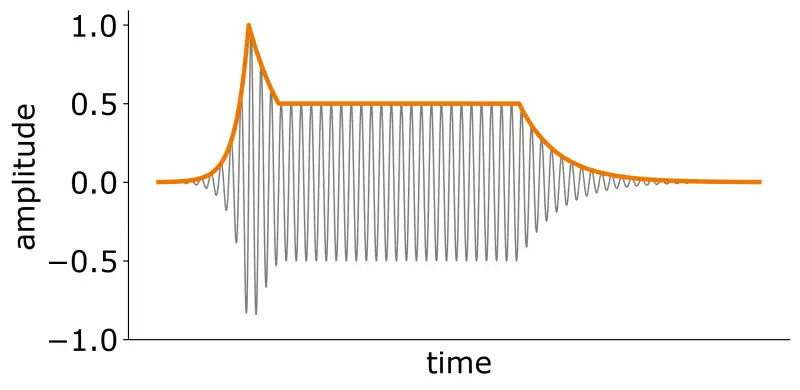
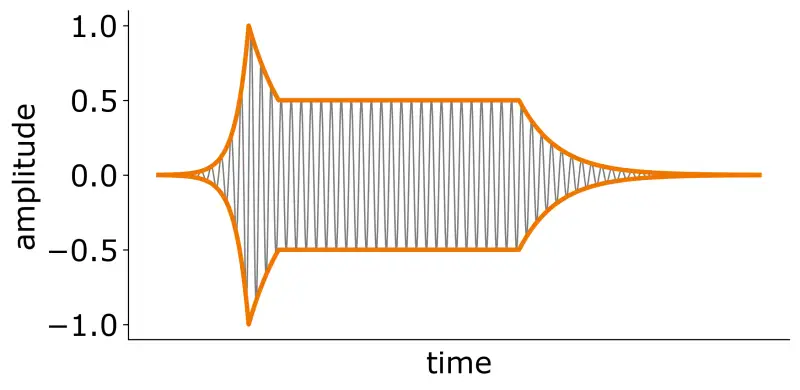
Posts: Envelopes.

diff --git a/_py/posts/synthesis/2022-07-03-envelopes/sine_adsr.py b/_py/posts/synthesis/2022-07-03-envelopes/sine_adsr.py
@@ -55,6 +55,7 @@ def main():
     plt.figure(figsize=(8,4))
     plt.plot(sine_enveloped_plot, grey, linewidth=1)
     plt.plot(envelope, color, linewidth=3)
+    plt.plot(-envelope, color, linewidth=3)
     a = plt.gca()
     a.spines['top'].set_visible(False)
     a.spines['right'].set_visible(False)

diff --git a/_posts/synthesis/2022-07-03-envelopes.md b/_posts/synthesis/2022-07-03-envelopes.md
@@ -1,6 +1,6 @@
 ---
 title: "Envelopes in Sound Synthesis: The Ultimate Guide"
-description: "TODO"
+description: "A tutorial on envelopes in sound synthesis: ADSR, ADBDR, and other types, what they can control, which segments they have, and how to implement them."
 date: 2022-07-03
 author: Jan Wilczek
 layout: post
@@ -16,7 +16,7 @@ tags:
   - sampling (sound generation)
 discussion_id: 2022-07-03-envelopes
 ---
-Everything needed on envelopes for coding your own synthesizer.
+Everything on envelopes for coding your own synthesizer.
 
 {% capture _ %}{% increment figureId20220703  %}{% endcapture %}
 
@@ -61,12 +61,16 @@ From the digital signal processing (DSP) perspective, **an envelope is a curve t
 
 As such, it relates to the _analysis_ of the signal: we have a waveform, we connect its peaks and obtain an envelope.
 
-![]({{ page.images | absolute_url | append: "sine_adsr.webp" }}){: alt="" }
-_Figure {% increment figureId20220703  %}. ._
+You can see an example of a signal with its envelope in orange in Figure 1. Note that the envelope is two-sided in this case.
+
+![]({{ page.images | absolute_url | append: "sine_adsr.webp" }}){: alt="A signal with its envelope marked" }
+_Figure {% increment figureId20220703  %}. A signal with its envelope marked._
 
 From the sound synthesis perspective, **an envelope is a curve that controls a certain parameter of the generated signal.**
 
-As such, it relates to the _synthesis_ of the signal: we want to generate a certain waveform and, thus, we apply an envelope to it; an envelope is a control data source [Pluta2019]
+As such, it relates to the _synthesis_ of the signal: we want to generate a certain waveform and, thus, we apply an envelope to it; an envelope is a control data source [Pluta2019].
+
+For controlling, we use only the non-negative part of the envelope. Actually, the signal from Figure 1 was generated by applying an [ADSR envelope](#adsr) to a sine.
 
 According to the [Merriam-Webster dictionary](https://www.merriam-webster.com/dictionary/envelop), _to envelop_ means "to enclose or enfold completely with or as if with a covering." So an envelope is a curve that is _enclosing_ the signal.
 
@@ -76,7 +80,7 @@ In this article, we consider the sound synthesis perspective of the envelope: we
 
 In principle, an envelope can control just about anything.
 
-In sound synthesis, it is typically used to control the amplitude, cutoff frequency of a low-pass filter, or the frequency of the generated signal itself.
+In sound synthesis, it is typically used to control the amplitude, cutoff frequency of a low-pass filter, or the frequency of the generated signal.
 
 ### Amplitude Envelope
 
@@ -90,11 +94,11 @@ Originally, amplitude envelopes appeared with the invention of the first musical
 
 Plucking a string has a sharp attack and an automatic release.
 
-Hitting a key on the piano starts with an increasing volume, which then decays to a certain level, which is slowly fading until the key is released and then the sound fades out.
+Hitting a key on the piano starts with an increasing volume, which then decays to a certain level. Then the sound is slowly fading until the key is released, which causes the sound to fade out completely.
 
 On a more fine-grained level, each of the partials in the amplitude spectrum of an instrument sound can have its own amplitude envelope.
 
-Synthesizers tried to mimic the behavior of natural instruments and so they introduced amplitude envelopes, somewhat simplified with respect to the naturally occurring ones.
+Synthesizers tried to mimic the behavior of natural instruments and so they introduced predefined amplitude envelopes, somewhat simplified with respect to the naturally occurring ones.
 
 Here's an example of a 220 Hz sine tone with the ADSR envelope from Figure 1 applied as an amplitude envelope.
 
@@ -112,17 +116,17 @@ Synthesizers imitate this by an envelope of the cutoff of a low-pass filter.
 
 When we hit a synthesizer key, the cutoff frequency rises, the sound becomes brighter and brighter. After some time (or after releasing the key), the sound becomes darker as the cutoff lowers and high-frequency components are more attenuated.
 
-Here's an example of the ADSR envelope controlling the cutoff of a lowpass filter processing a sawtooth:
+Here's an example of the ADSR envelope controlling the cutoff of a lowpass filter processing a 220 Hz sawtooth:
 
 {% include embed-audio.html src="/assets/wav/posts/synthesis/2022-07-03-envelopes/cutoff_adsr.flac" %}
 
 As you can hear, the cutoff envelope influences the amplitude envelope because by decreasing the energy of partials, it decreases the overall signal energy.
 
-I specifically mention cutoff envelope not cutoff frequency envelope. That is because we typically want the cutoff frequency to increase with the pitch of the key that we hit. Otherwise, high notes could not be audible.
+I specifically mention the cutoff envelope not the cutoff frequency envelope. That is because we typically want the cutoff frequency to increase with the pitch of the key that we hit. Otherwise, high notes could be inaudible.
 
 The cutoff envelope controls what percentage of the cutoff frequency should be set. Typically, the value of 1 (100%) means that the cutoff frequency corresponds to the value set by the user.
 
-Sometimes the synthesizers allow the user to control the **contour amount**, i.e., the range of cutoff change. For example, we may want to have the cutoff change only between 80% and 100% because starting the envelope always from 0% tends to sound too repetitive.
+Sometimes the synthesizers allow the user to control the **contour amount**, i.e., the range of the cutoff change. For example, we may want to have the cutoff change only between 80% and 100% because starting the envelope always from 0% tends to sound too repetitive.
 
 ### Frequency Envelope
 
@@ -138,6 +142,8 @@ In analog sound synthesis, **an envelope generator (EG) is a source of the contr
 
 Therefore, on module connection diagrams, you can often see EG blocks connected to VCA blocks (voltage-controlled amplifiers), VCF blocks (voltage-controlled filters), or (in rare cases) to VCO blocks (voltage-controlled oscillators).
 
+<!-- TODO: Sample diagram -->
+
 The connection between any module and an EG means that this EG is controlling a parameter of that module. For VCAs, that's amplitude, for VCFs, it's cutoff, and for VCOs, it's frequency.
 
 Nowadays, EG blocks are also used to depict the interconnections of digital modules but their meaning is the same: they are sources of a control signal, an envelope.
@@ -149,29 +155,29 @@ Amplitude and cutoff envelopes are used for various purposes. For example, to
 * make the sound more lively,
 * make the sound more natural by imitating real instruments' envelopes,
 * make the sound less natural with obscure envelopes,
-* avoid clicks and other artifacts (e.g., with fade-in and fade-out).
+* avoid clicks and other artifacts (e.g., via a fade-in and a fade-out).
   
 Some more specialized applications of envelopes in sound synthesis include
 
 * amplitude envelopes of partials in additive synthesis,
-* envelope of the amplitude and the cutoff frequency in subtractive synthesis,
+* envelope of the amplitude and the cutoff in subtractive synthesis,
 * frequency envelope of an oscillator for sound design purposes.
 
 ## Types of Envelope Segments
 
-Envelopes consist of segments (ramps). For example, the most popular Attack-Decay-Sustain-Release (ADSR) envelope consists of 4 segments: Attack, Decay, Sustain, and Release.
+Envelopes consist of segments (ramps). For example, the most popular Attack-Decay-Sustain-Release (ADSR) envelope consists of 4 segments: attack, decay, sustain, and release.
 
-![]({{ page.images | absolute_url | append: "ADSR.webp" }}){: alt="Attack-Decay-Sustain-Release (ADSR) envelope" }
-_Figure {% increment figureId20220703  %}. Attack-Decay-Sustain-Release (ADSR) envelope._
+![]({{ page.images | absolute_url | append: "ADSR.webp" }}){: alt="ADSR envelope and its 4 segments" }
+_Figure {% increment figureId20220703  %}. ADSR envelope consists of 4 segments._
 
-The segments are crude approximations to the natural envelopes but they represent a good trade-off between the quality of the result and the complexity of control.
+The segments are crude piece-wise approximations to the natural envelopes but they represent a good trade-off between the quality of the result and the complexity of control.
 
 The following is a comprehensive (to my best knowledge) list of envelope segment types:
 
 * **Delay:** the amount of time between the _note-on_ event and the start of the attack segment. Delaying the appearance of sound after a key-press is especially important in ambient music, where the musician can use this time to adjust the timbre parameters. We can control the length of this delay.
-* **Attack:** the initial portion of every envelope after a _note-on_ event. In this segment the value is rising from 0 (minimum envelope value) to 1 (maximum envelope value). When we "control the attack" we change the duration of this segment.
-* **Hold:** a segment where the envelope value is 1; by controlling its length, we adjust how long will the controlled parameter be at its peak value.
-* **Decay:** the segment where the envelope falls from the peak value to the initial sustain value. The value change is faster (more dynamic) than in the sustain (or "decay 2") phase. We can control its length.
+* **Attack:** the initial portion of every envelope after a _note-on_ event. In this segment the value is rising from the minimum envelope value to the maximum envelope value. When we "control the attack" we change the duration of this segment.
+* **Hold:** a segment where the envelope value is at its maximum; by controlling its length, we adjust how long will the controlled parameter be at its peak value.
+* **Decay:** the segment where the envelope falls from the peak value to the initial sustain value. We can control its length.
 * **Sustain:** the segment where the envelope maintains a constant level until a _note-off_ event. We set the value of this level but its length is controlled by the performer.
 * **Release:** the final segment of any envelope, where the value falls from its current value to 0.
 
@@ -181,18 +187,18 @@ A very important consideration when implementing any envelope is how its value s
 
 To be exact, should the amplitude increase linearly or exponentially (linearly on the logarithmic scale)? Below is a comparison of these two approaches:
 
-![]({{ page.images | absolute_url | append: "linear_vs_exponential.webp" }}){: alt="" }
-_Figure {% increment figureId20220703  %}. ._
+![]({{ page.images | absolute_url | append: "linear_vs_exponential.webp" }}){: alt="Comparison of value change curves of envelopes" }
+_Figure {% increment figureId20220703  %}. A linear change in value (left) vs an exponential change (right)._
 
 The caveat here is that we perceive the exponential change as a linear one. To hear this, listen to these two examples.
 
 Each one plays a sine at 220 Hz.
 
-This one has the linear attack envelope (left in Figure ???).
+This one has the linear attack envelope (left in Figure 3).
 
 {% include embed-audio.html src="/assets/wav/posts/synthesis/2022-07-03-envelopes/linear.flac" %}
 
-This one has the exponential attack envelope (right in Figure ???).
+This one has the exponential attack envelope (right in Figure 3).
 
 {% include embed-audio.html src="/assets/wav/posts/synthesis/2022-07-03-envelopes/exponential.flac" %}
 
@@ -206,9 +212,9 @@ This applies to amplitude envelopes, what about cutoff or frequency envelopes?
 
 As our perception of frequency is logarithmic as well, these envelopes should also use exponential segments to make the impression of a linear change.
 
-**Warning:** Although most depictions of envelopes show linear segments not exponential segments, in fact, an exponential change is meant. I follow this simplification in every depiction of an envelope in this article apart from Figure 1.
+**Warning:** Although most depictions of envelopes show linear segments not exponential segments, in fact, an exponential change is meant. I follow this linear simplification in every depiction of an envelope in this article apart from Figure 1.
 
-After learning the building blocks of envelopes, now it is time to see what types of envelope are out there.
+After learning the building blocks of envelopes, now it is time to see what types of envelopes are out there.
 
 ## The Catalog of Envelopes
 
